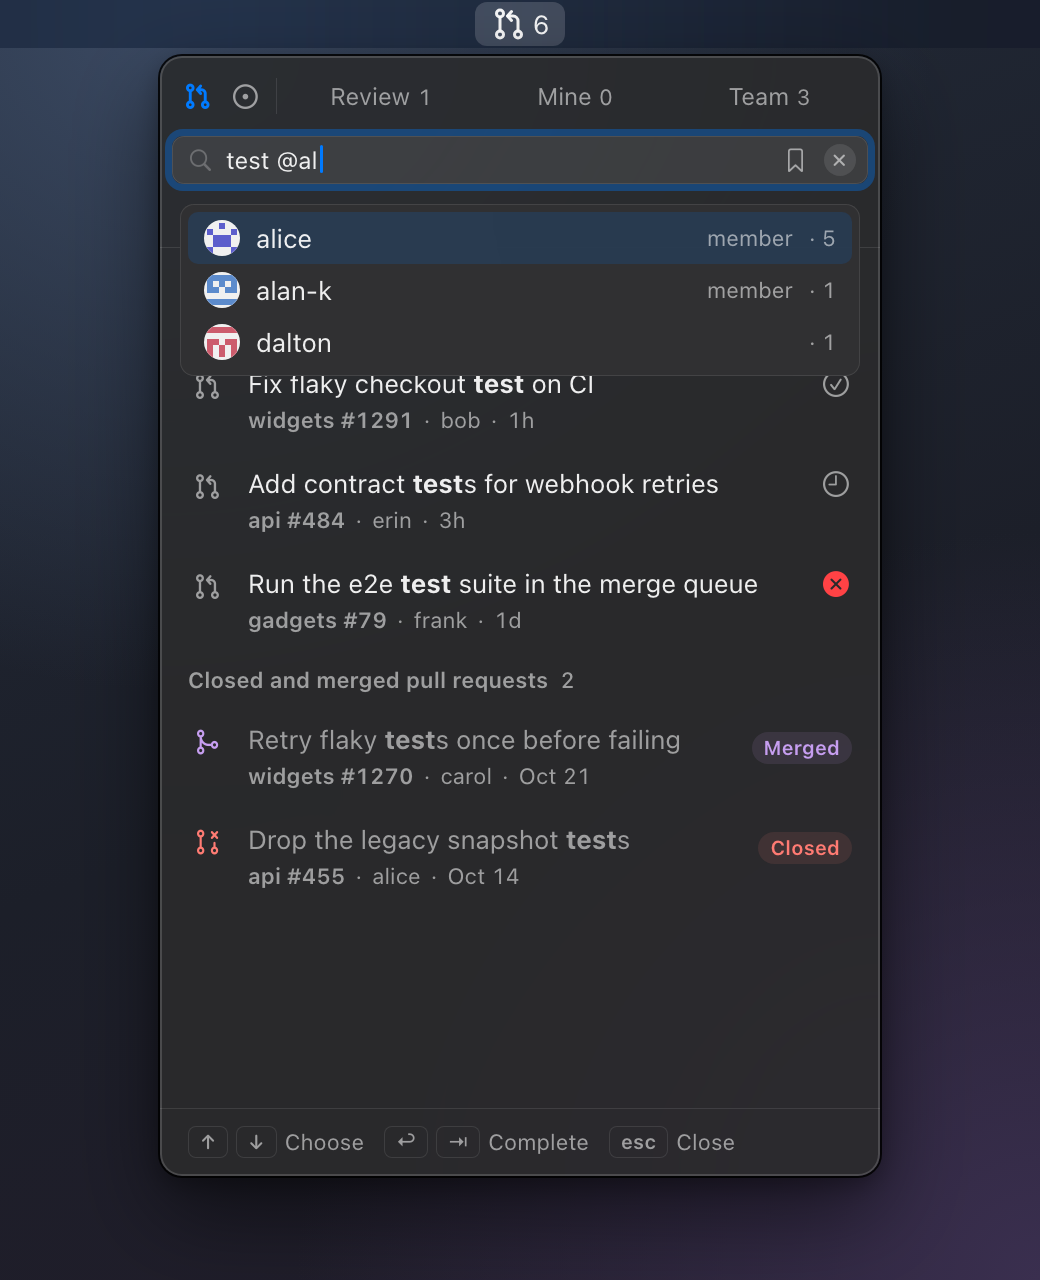
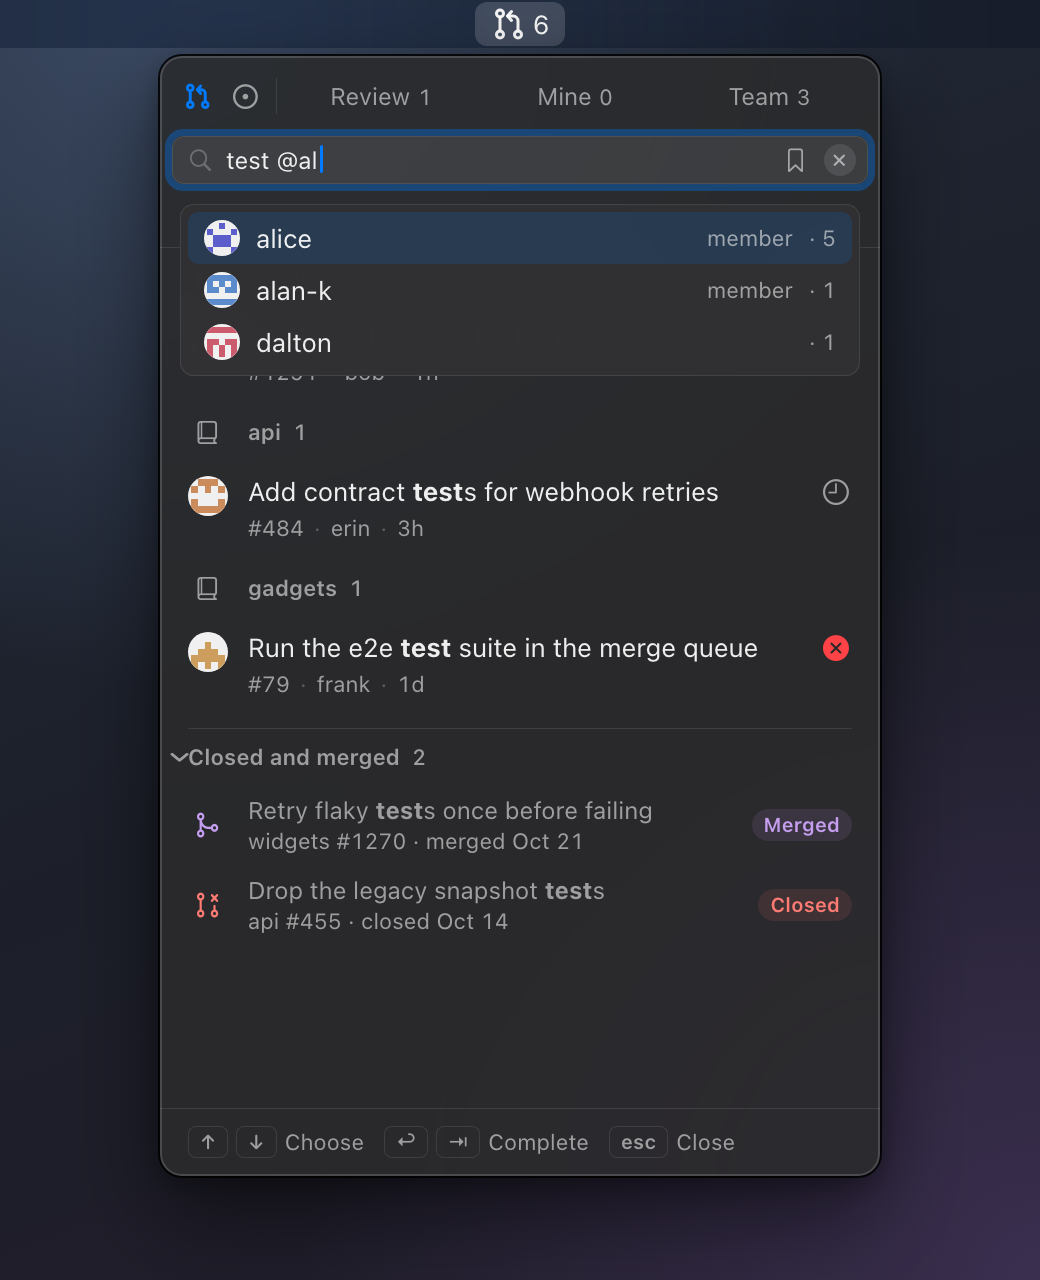
Docs: search screenshots and README show the tab layout

diff --git a/docs/media/src/search.js b/docs/media/src/search.js
@@ -1,9 +1,9 @@
-// PullBull search (SearchResultsView, CompletionList, CompletionFooter) as HTML pieces. Builds on
-// components.js (window.PullBull). Sizes in points; see popover.css.
+// PullBull search as HTML pieces: the results body (SearchResultsView, built from the tab components in
+// components.js), CompletionList, CompletionFooter and SearchFooter. Sizes in points; see popover.css.
 (function () {
   "use strict";
   const P = window.PullBull;
-  const { sym, avatar, esc } = P;
+  const { avatar, esc } = P;
 
   /** Highlight.title: every query word in bold. */
   function highlight(title, words) {
@@ -13,28 +13,6 @@
       html = html.replace(new RegExp(w.replace(/[.*+?^${}()|[\]\\]/g, "\\$&"), "gi"), (m) => `<strong>${m}</strong>`);
     }
     return html;
-  }
-
-  /** ListSectionHeader without a glyph: 11 pt semibold title and medium count, 28 pt tall, title at the rows' glyph edge. */
-  const groupHeader = (title, count) =>
-    `<div class="hstack search-group f11 w-semibold">${esc(title)}<span class="w-medium mono">${count}</span></div>`;
-
-  /** PRRow(context: .search): state glyph, highlighted title, "repo #num · author · when"; CI glyph or Merged/Closed pill. */
-  function prRow(pr, words) {
-    const glyph = {
-      open: ["pullbull.pullrequest", "var(--secondary)"],
-      merged: ["pullbull.pullrequest.merged", "var(--merged-text)"],
-      closed: ["pullbull.pullrequest.closed", "var(--closed-text)"],
-    }[pr.state];
-    const size = pr.state === "open" ? 13 : 12;
-    const trailing = pr.state === "merged" ? `<span class="pill merged">Merged</span>`
-      : pr.state === "closed" ? `<span class="pill closed">Closed</span>`
-      : `<span class="ci" style="margin:0">${sym({ success: "checkmark.circle", failure: "xmark.circle.fill", pending: "clock", skipped: "minus.circle" }[pr.ci], 13, "regular", { color: pr.ci === "failure" ? "var(--red)" : "var(--secondary)" })}</span>`;
-    const dim = pr.state !== "open" || pr.draft;
-    return `<div class="row search-row-pr"><span class="leading" style="margin-top:0">${sym(glyph[0], size, "regular", { color: glyph[1] })}</span>` +
-      `<div class="vstack body"><span class="title-text f13" style="${dim ? "color:var(--secondary)" : ""}">${highlight((pr.draft ? "Draft: " : "") + pr.title, words)}</span>` +
-      `<div class="hstack meta f11 mono"><span class="w-semibold">${esc(pr.repo)} #${pr.number}</span><span>·</span><span>${esc(pr.author)}</span><span>·</span><span>${esc(pr.when)}</span>${pr.role ? `<span>·</span><span>${esc(pr.role)}</span>` : ""}</div></div>` +
-      `<span style="margin-top:1px;flex:none">${trailing}</span></div>`;
   }
 
   /** CompletionList for "@…": avatar 18, login 13 pt (or "me · login"), "member" and "· N" in 11 pt. */
@@ -60,12 +38,15 @@
     return `<div class="hstack footer f11" style="padding:0 14px;gap:10px"><span class="mono">${count === 1 ? "1 result" : `${count} results`}</span><span class="spacer"></span>${keyHint(["↩"], "Open")}${keyHint(["esc"], "Clear")}</div>`;
   }
 
+  /** SearchResultsView: the open results as the Team tab lays them out (repo groups, Team rows), then the ended ones under "Closed and merged". */
   function searchBody(d) {
     const s = d.searchResults;
-    const ctx = `<div class="hstack search-context f11">${s.login ? avatar(s.login, 14) : ""}<span class="ellipsis">${esc(s.context)}</span></div>`;
-    let html = ctx;
-    if (s.open.length) html += groupHeader("Open pull requests", s.open.length) + s.open.map((pr) => prRow(pr, s.words)).join("");
-    if (s.closed.length) html += groupHeader("Closed and merged pull requests", s.closed.length) + s.closed.map((pr) => prRow(pr, s.words)).join("");
+    let html = "";
+    for (const group of s.groups) {
+      html += P.groupHeader(group.repo, group.rows.length);
+      html += group.rows.map((pr) => P.prRow(pr, "team", { words: s.words })).join("");
+    }
+    if (s.closed.length) html += P.closedSection({ title: "Closed and merged", count: s.closed.length, expanded: true, rows: s.closed, words: s.words });
     return `<div class="list">${html}</div>`;
   }
 

diff --git a/docs/media/src/components.js b/docs/media/src/components.js
@@ -176,7 +176,7 @@
       : avatar(pr.author, 20);
     const cls = ["row", pr.draft ? "draft" : "", pr.dimmed ? "dimmed" : "", pr.hover ? "hover" : "", pr.selected ? "selected" : ""].filter(Boolean).join(" ");
     return `<div class="${cls}" data-number="${pr.number}"><span class="leading"${pr.dimmed ? ' style="opacity:.45"' : ""}>${leading}</span>` +
-      `<div class="vstack body"><span class="title-text f13">${esc(pr.title)}</span><div class="hstack meta f11 mono">${meta}</div></div>` +
+      `<div class="vstack body"><span class="title-text f13">${opts.words ? window.PullBull.highlight(pr.title, opts.words) : esc(pr.title)}</span><div class="hstack meta f11 mono">${meta}</div></div>` +
       `${ciGlyph(pr.ci)}</div>`;
   }
 
@@ -187,19 +187,20 @@
       (count > 0 ? `<span class="w-medium mono">${count}</span>` : "") + `</span></div>`;
   }
 
-  /** ClosedRow */
-  function closedRow(pr) {
+  /** ClosedRow; a search's `words` are bold in the title. */
+  function closedRow(pr, words) {
     const merged = pr.state === "merged";
     return `<div class="hstack closed-row"><span class="glyph">${sym(PR_GLYPH[pr.state], 12, "regular", { color: merged ? "var(--merged-text)" : "var(--closed-text)" })}</span>` +
-      `<div class="vstack body"><span class="f12 ellipsis">${esc(pr.title)}</span><span class="f11 mono ellipsis">${esc(pr.repo)} #${pr.number} · ${merged ? "merged" : "closed"} ${esc(pr.when)}</span></div>` +
+      `<div class="vstack body"><span class="f12 ellipsis">${words ? window.PullBull.highlight(pr.title, words) : esc(pr.title)}</span><span class="f11 mono ellipsis">${esc(pr.repo)} #${pr.number} · ${merged ? "merged" : "closed"} ${esc(pr.when)}</span></div>` +
       `<span class="pill ${merged ? "merged" : "closed"}">${merged ? "Merged" : "Closed"}</span></div>`;
   }
 
+  /** The folding closed section: Mine's "Recently closed" with its window, or search's "Closed and merged" (`rc.title`, no `rc.window`). */
   function closedSection(rc) {
     const chevron = `<span class="lane-chevron" style="transform:rotate(${rc.expanded ? 90 : 0}deg)">${sym("chevron.right", 9, "bold")}</span>`;
-    let html = `<div class="hairline closed-rule"></div><div class="hstack closed-header f11 w-semibold">${chevron}<span>Recently closed</span>` +
-      `<span class="w-medium mono">${rc.count}</span><span class="spacer"></span><span style="font-weight:400">Last 7 days</span></div>`;
-    if (rc.expanded) html += rc.rows.map(closedRow).join("");
+    let html = `<div class="hairline closed-rule"></div><div class="hstack closed-header f11 w-semibold">${chevron}<span>${esc(rc.title || "Recently closed")}</span>` +
+      `<span class="w-medium mono">${rc.count}</span><span class="spacer"></span>${rc.title ? "" : '<span style="font-weight:400">Last 7 days</span>'}</div>`;
+    if (rc.expanded) html += rc.rows.map((pr) => closedRow(pr, rc.words)).join("");
     return html;
   }
 

diff --git a/docs/media/src/data/search.js b/docs/media/src/data/search.js
@@ -1,6 +1,7 @@
 // Demo data for search: Pull Requests mode, "test @al" typed with the caret at the end. The "@al" token is
-// being picked, so it is left out of the query (SearchFieldState): the results behind are for "test", and the
-// people list for "al" covers their top. Tab counts are each tab's matches; no tab is selected.
+// being picked, so it is left out of the query (SearchFieldState): the results behind are for "test", laid out
+// like the Team tab, and the people list for "al" covers their top. Tab counts are each tab's matches; no tab
+// is selected (search spans all tabs).
 window.SCENES = window.SCENES || {};
 window.SCENES.search = {
   view: "search",
@@ -24,17 +25,17 @@ window.SCENES.search = {
     ],
   },
   searchResults: {
-    context: "Titles in all of initech",
     words: ["test"],
     count: 5,
-    open: [
-      { title: "Fix flaky checkout test on CI", repo: "widgets", number: 1291, author: "bob", when: "1h", state: "open", ci: "success" },
-      { title: "Add contract tests for webhook retries", repo: "api", number: 484, author: "erin", when: "3h", state: "open", ci: "pending" },
-      { title: "Run the e2e test suite in the merge queue", repo: "gadgets", number: 79, author: "frank", when: "1d", state: "open", ci: "failure" },
+    // Laid out as the Team tab is, grouped by repo (newest group first) with Team's rows; no context line.
+    groups: [
+      { repo: "widgets", rows: [{ title: "Fix flaky checkout test on CI", number: 1291, author: "bob", age: "1h", ci: "success", info: [] }] },
+      { repo: "api", rows: [{ title: "Add contract tests for webhook retries", number: 484, author: "erin", age: "3h", ci: "pending", info: [] }] },
+      { repo: "gadgets", rows: [{ title: "Run the e2e test suite in the merge queue", number: 79, author: "frank", age: "1d", ci: "failure", info: [] }] },
     ],
     closed: [
-      { title: "Retry flaky tests once before failing", repo: "widgets", number: 1270, author: "carol", when: "Oct 21", state: "merged" },
-      { title: "Drop the legacy snapshot tests", repo: "api", number: 455, author: "alice", when: "Oct 14", state: "closed" },
+      { title: "Retry flaky tests once before failing", repo: "widgets", number: 1270, state: "merged", when: "Oct 21" },
+      { title: "Drop the legacy snapshot tests", repo: "api", number: 455, state: "closed", when: "Oct 14" },
     ],
   },
 };

diff --git a/docs/media/src/popover.css b/docs/media/src/popover.css
@@ -430,10 +430,7 @@ body {
 /* ---------- Search (SearchResultsView, CompletionList) ---------- */
 
 .below-header { position: relative; flex: 1 1 auto; min-height: 0; display: flex; flex-direction: column; }
-.search-context { padding: 10px 8px 0; min-height: 24px; gap: 6px; color: var(--secondary); }
-.search-group { height: 28px; padding: 0 8px; gap: 6px; color: var(--secondary); }
-.search-row-pr .meta { gap: 5px; }
-.search-row-pr strong { font-weight: 700; }
+.row strong, .closed-row strong { font-weight: 700; }
 .caret { display: inline-block; width: 1.5px; height: 14px; margin-left: 1px; vertical-align: -2px; background: var(--accent); border-radius: 1px; }
 .completion-overlay { position: absolute; left: 0; right: 0; top: 0; padding: 4px 10px 0; z-index: 5; }
 .completion-list {

diff --git a/README.md b/README.md
@@ -85,6 +85,8 @@ More in the [manual](docs/manual.md#issues).
 | `updated:today` `updated:3d` `updated:1w` `updated:1m` | Items active since 00:00 today, or 2, 6 or 29 days before; GitHub's date forms (`updated:>2026-10-01`) also filter locally |
 | `-@dependabot` `-~wontfix` | Leave those out: a `-` before any qualifier |
 
+Results are laid out like the tab you search from, with the same groups and rows; merged and closed ones follow under Closed and merged.
+
 Combine `@`, `~`, `is:`, `status:`, `updated:`, `review:`, `repo:`, `size:` and words. Type `st`, `la` or `up` and press <kbd>Tab</kbd> for `status:`, `label:` or `updated:`, with suggestions. Save the searches you repeat with the bookmark icon, apply one with ⌃1–⌃9; manage them in Settings → Search.
 
 > [!TIP]
